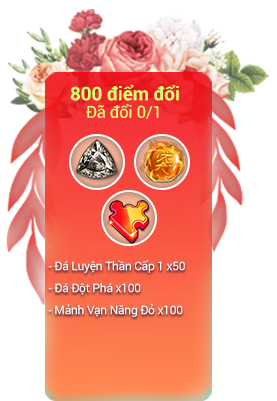
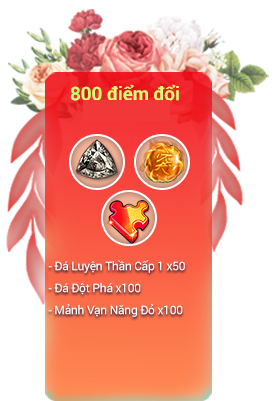
fix ui pc

Changed region(s): [[0.2888, 0.2394, 0.6065, 0.2993]]

diff --git a/index.html b/index.html
@@ -15,7 +15,27 @@
 </head>
 <body>
     <div class="container text-center">
-        <div class="card-routes"></div>
+        <div class="card-routes">
+            <h6 class="routes__title">
+                Bạn có: 
+                <span>999</span><br>
+                Lượt tặng hoa
+            </h6>
+            <div class="routes__list">
+                <div class="routes__item">
+                    <a><img src="/assets/img/routes-btn/the-le.png" alt=""></a>
+                </div>
+                <div class="routes__item">
+                    <a><img src="/assets/img/routes-btn/lich-su.png" alt=""></a>
+                </div>
+                <div class="routes__item">
+                    <a><img src="/assets/img/routes-btn/doi-qua.png" alt=""></a>
+                </div>
+                <div lass="routes__item">
+                    <a><img src="/assets/img/routes-btn/fanpage.png" alt=""></a>
+                </div>
+            </div>
+        </div>
         <div class="charts-btn">
             <a href="/"><img src="/assets/img/BXH.png" alt=""></a>
         </div>
@@ -41,30 +61,63 @@
                 <img src="/assets/img/qua-top/top 2.png" alt="">
             </div>
         </div>
-        <div class="row get-gifts">
-            <div class="col col-lg-3 col-sm-6 item" style="background-image: url('/assets/img/doi-qua/1.png')">
-                <a href="/"><img src="/assets/img/doi-qua-btn/doi-ngay-btn.png" alt=""></a>
-            </div>
-            <div class="col col-lg-3 col-sm-6 item" style="background-image: url('/assets/img/doi-qua/2.png')">
-                <a href="/"><img src="/assets/img/doi-qua-btn/doi-ngay-btn.png" alt=""></a>
-            </div>
-            <div class="col col-lg-3 col-sm-6 item" style="background-image: url('/assets/img/doi-qua/3.png')">
-                <a href="/"><img src="/assets/img/doi-qua-btn/doi-ngay-btn.png" alt=""></a>
-            </div>
-            <div class="col col-lg-3 col-sm-6 item" style="background-image: url('/assets/img/doi-qua/4.png')">
-                <a href="/"><img src="/assets/img/doi-qua-btn/doi-ngay-btn.png" alt=""></a>
-            </div>
-            <div class="col col-lg-3 col-sm-6 item" style="background-image: url('/assets/img/doi-qua/5.png')">
-                <a href="/"><img src="/assets/img/doi-qua-btn/doi-ngay-btn.png" alt=""></a>
-            </div>
-            <div class="col col-lg-3 col-sm-6 item" style="background-image: url('/assets/img/doi-qua/6.png')">
-                <a href="/"><img src="/assets/img/doi-qua-btn/doi-ngay-btn.png" alt=""></a>
-            </div>
-            <div class="col col-lg-3 col-sm-6 item" style="background-image: url('/assets/img/doi-qua/7.png')">
-                <a href="/"><img src="/assets/img/doi-qua-btn/doi-ngay-btn.png" alt=""></a>
-            </div>
-            <div class="col col-lg-3 col-sm-6 item" style="background-image: url('/assets/img/doi-qua/8.png')">
-                <a href="/"><img src="/assets/img/doi-qua-btn/doi-ngay-btn.png" alt=""></a>
+        <div class="get-gifts">
+            <h6 class="title">
+                <p class="text">
+                    Bạn có: 
+                    <span>999</span> 
+                    Điểm thân mật
+                </p>
+            </h6>
+            <div class="row">
+                <div class="col col-lg-3 col-sm-6 item" style="background-image: url('/assets/img/doi-qua/1.png')">
+                    <h6 class="quantity">
+                        <p>Đã đổi: <span>0</span>/1</p>
+                    </h6>
+                    <a href="/"><img src="/assets/img/doi-qua-btn/doi-ngay-btn.png" alt=""></a>
+                </div>
+                <div class="col col-lg-3 col-sm-6 item" style="background-image: url('/assets/img/doi-qua/2.png')">
+                    <h6 class="quantity">
+                        <p>Đã đổi: <span>0</span>/1</p>
+                    </h6>
+                    <a href="/"><img src="/assets/img/doi-qua-btn/doi-ngay-btn.png" alt=""></a>
+                </div>
+                <div class="col col-lg-3 col-sm-6 item" style="background-image: url('/assets/img/doi-qua/3.png')">
+                    <h6 class="quantity">
+                        <p>Đã đổi: <span>0</span>/1</p>
+                    </h6>
+                    <a href="/"><img src="/assets/img/doi-qua-btn/doi-ngay-btn.png" alt=""></a>
+                </div>
+                <div class="col col-lg-3 col-sm-6 item" style="background-image: url('/assets/img/doi-qua/4.png')">
+                    <h6 class="quantity">
+                        <p>Đã đổi: <span>0</span>/1</p>
+                    </h6>
+                    <a href="/"><img src="/assets/img/doi-qua-btn/doi-ngay-btn.png" alt=""></a>
+                </div>
+                <div class="col col-lg-3 col-sm-6 item" style="background-image: url('/assets/img/doi-qua/5.png')">
+                    <h6 class="quantity">
+                        <p>Đã đổi: <span>0</span>/1</p>
+                    </h6>
+                    <a href="/"><img src="/assets/img/doi-qua-btn/doi-ngay-btn.png" alt=""></a>
+                </div>
+                <div class="col col-lg-3 col-sm-6 item" style="background-image: url('/assets/img/doi-qua/6.png')">
+                    <h6 class="quantity">
+                        <p>Đã đổi: <span>0</span>/1</p>
+                    </h6>
+                    <a href="/"><img src="/assets/img/doi-qua-btn/doi-ngay-btn.png" alt=""></a>
+                </div>
+                <div class="col col-lg-3 col-sm-6 item" style="background-image: url('/assets/img/doi-qua/7.png')">
+                    <h6 class="quantity">
+                        <p>Đã đổi: <span>0</span>/1</p>
+                    </h6>
+                    <a href="/"><img src="/assets/img/doi-qua-btn/doi-ngay-btn.png" alt=""></a>
+                </div>
+                <div class="col col-lg-3 col-sm-6 item" style="background-image: url('/assets/img/doi-qua/8.png')">
+                    <h6 class="quantity">
+                        <p>Đã đổi: <span>0</span>/1</p>
+                    </h6>
+                    <a href="/"><img src="/assets/img/doi-qua-btn/doi-ngay-btn.png" alt=""></a>
+                </div>
             </div>
         </div>
     </div>

diff --git a/assets/css/style.css b/assets/css/style.css
@@ -1,29 +1,85 @@
 body  {
     min-height: 100vw;
-    background-image: url('/assets/img/pc/bg.png');
+    background-image: url('/assets/img/pc/bg.jpg');
     background-size: 100%;
     background-repeat: no-repeat;
+    background-color: #F6FAFA;
 }
 
+/* Routes */
 .card-routes {
     height: 28vw;
     width: 12vw;
+    color: #fff;
     background-image: url('/assets/img/pc/the-bai.png');
     background-size: 100%;
     background-repeat: no-repeat;
 }
 
+.routes__title {
+    margin: 0;
+    padding: 5.4vw 1vw .6vw 0;
+}
+
+.routes__list {
+    width: 10.7vw;
+    padding: 0;
+    list-style: none;
+    display: flex;
+    flex-direction: column;
+    align-items: center;
+}
+
+.routes__item {
+    height: 2.4vw;
+}
+
+.routes__item img {
+    cursor: pointer;
+}
+
+/* Charts Btn */
 .charts-btn a img {
     margin-top: -8vw;
     margin-left: 50vw;
+    filter: brightness(1.4);
+    animation: scaleAnimation 2s linear infinite;
 }
 
+@keyframes scaleAnimation {
+    0% {
+      transform: scale(1);
+    }
+    50% {
+        transform: scale(1.2);
+      }
+    100% {
+      transform: scale(1);
+    }
+}
+
+@keyframes brightAnimation {
+    0% {
+      transform: scale(1);
+      filter: brightness(1);
+    }
+    100% {
+      transform: scale(1.1);
+      filter: brightness(1.4);
+    }
+}
+
+/* More turn */
 .more-turns {
     margin: 2vw 8vw;
 }
 
 .more-turns .btn a img {
-    width: 14vw;
+    width: 11vw;
+}
+
+.more-turns .btn:hover {
+    animation: brightAnimation 1.2s linear infinite;
 }
 
 .gift-top {
@@ -35,15 +91,45 @@ body  {
     width: 12vw;
     justify-content: center;
 }
+
+/* Get gifts */
+.get-gifts {
+    margin-bottom: 4vw;
+}
+.get-gifts .title {
+    width: 20vw;
+    height: 4vw;
+    margin: -5vw 0 0 24vw;
+    background-image: url(/assets/img/routes-btn/);
+    background-repeat: no-repeat;
+    background-size: 100%;
+    color: #fff;
+    font-size: 1.2rem;
+}
+
+.get-gifts .title .text {
+    padding-top: 3vw;
+}
+
 .get-gifts .item {
     height: 26vw;
     background-size: 100%;
     background-repeat: no-repeat;
 }
 
+.get-gifts .item .quantity {
+    padding: 7vw 1.2vw 0 0;
+    font-size: 1.2rem;
+    color: #D3FF75;
+}
+
 .get-gifts .item a,
 .get-gifts .item a img {
-    margin: 21.4vw .6vw 0 0;
+    margin: 12.8vw 0.6vw 0 0;
+}
+
+.get-gifts .item a:hover {
+    animation: brightAnimation 1.2s linear infinite;
 }
 
 /* General */

diff --git a/assets/css/responsive.css b/assets/css/responsive.css
@@ -1,13 +1,34 @@
 /* Styles for laptops mini*/
-@media only screen and (min-width: 993px)  and (max-width: 1400px) {
+@media only screen and (min-width: 993px)  and (max-width: 1600px) {
+    .routes__title {
+        font-size: .8rem;
+    }
+    .routes__item {
+        margin: .01vw 0;
+    }
+    .routes__item img {
+        width: 8vw;
+        height: 2vw;
+    }
     .more-turns {
-        margin: 0 8vw;
+        margin: 0 14vw;
+    }
+    .get-gifts .title {
+        font-size: 1.2rem;
+        margin: -6.4vw 0 0 34vw;
+    }
+    .get-gifts .title .text {
+        padding-top: 3.4vw;
+        font-size: 1.1rem;
     }
     .get-gifts .item {
         height: 34vw;
     }
+    .get-gifts .item .quantity {
+        padding: 8.8vw 1.2vw 0 0;
+    }
     .get-gifts .item a, .get-gifts .item a img {
-        margin: 28vw 0.6vw 0 0;
+        margin: 17vw 0.6vw 0 0;
     }
 }
 
@@ -45,7 +66,7 @@
     .more-turns .btn a img {
         width: 34vw;
     }
-    /* Gift */
+    /* Gift Top */
     .gift-top {
         margin: 56vw 0 18vw;
     }
@@ -62,6 +83,10 @@
     }
     .gift-top .item img {
         width: 44vw;
+    }
+    /* Get Gift */
+    .get-gifts {
+        padding-top: 12vw;
     }
     .get-gifts .item {
         height: 50vw;
